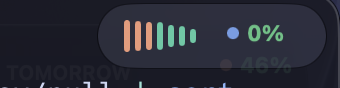
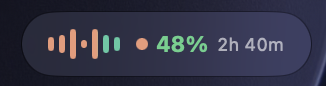
Improve README layout

diff --git a/README.md b/README.md
@@ -16,7 +16,7 @@
 </p>
 
 <p align="center">
-  <img src="docs/images/hud-pill.png" width="420" alt="플로팅 HUD 알약">
+  <img src="docs/images/hud-pill.png" width="326" alt="플로팅 HUD 알약">
 </p>
 
 화면 우상단에 항상 떠 있는 **펄스 웨이브 알약**이 AI 코딩 에이전트들의 토큰 소모를 실시간으로 보여줍니다. 토큰이 빨리 탈수록 파도가 크게 출렁이고, 색 띠는 지금 어떤 에이전트가 일하는지 알려줍니다. 한도가 임박하면 알약이 카드로 모핑되며 경고하고, 새 세션이 시작되면 지난 세션을 요약해줍니다.
@@ -33,22 +33,33 @@ curl -fsSL https://raw.githubusercontent.com/taeng0204/ai-glass/main/install.sh 
 
 ## 기능
 
-| | |
-|---|---|
-| **플로팅 HUD** | 우상단 glass 알약 — 웨이브 스타일 5종(펄스 바/스무스 웨이브/워터필/오브/심전도), 6초 서비스 로테이션, 호버 시 에이전트별 5h·주간 게이지+리셋 카운트다운, 드래그 이동, ⌘⇧E 고정 확장 |
-| **대시보드** | 메뉴바 ✦ 클릭 또는 ⌘⇧U — 개요(윈도우별 게이지·소진 예측·오늘 토큰/비용/속도) · 추이(7/30일 스택 차트) · 프로젝트(디렉토리별, 에이전트 색 구분) · 기록(알림 히스토리, 호버 시 알약 리플레이) |
-| **이벤트** | 한도 70/90% 임박 · 세션 리셋(직전 세션 요약) · 토큰 급증 · 소진 예측(5h는 세션 내 소진 시, 주간은 "~N일" 추세) · 복귀 인사 |
-| **브리핑** | 아침(어제 요약+스트릭 🔥) · 점심(오늘 페이스 예측) · 저녁(오늘 요약) · 월요일 주간 리포트 📊 |
-| **재미** | 마일스톤 돌파 🎉 · 일일 신기록 🏆 · 사운드(옵션) — 통계도 중요하지만 감성도 중요하니까 |
-| **온보딩** | 첫 실행 시 웨이브 스타일·메뉴바 모드·에이전트를 라이브 프리뷰로 선택 |
+- **플로팅 HUD**: 우상단 glass 알약, 웨이브 스타일 5종, 6초 서비스 로테이션, 호버 시 에이전트별 5h·주간 게이지+리셋 카운트다운, 드래그 이동, ⌘⇧E 고정 확장
+- **대시보드**: 메뉴바 ✦ 클릭 또는 ⌘⇧U, 개요(윈도우별 게이지·소진 예측·오늘 토큰/비용/속도), 추이(7/30일 스택 차트), 프로젝트(디렉토리별, 에이전트 색 구분), 기록(알림 히스토리, 호버 시 알약 리플레이)
+- **이벤트**: 한도 70/90% 임박, 세션 리셋(직전 세션 요약), 토큰 급증, 소진 예측, 복귀 인사
+- **브리핑**: 아침(어제 요약+스트릭 🔥), 점심(오늘 페이스 예측), 저녁(오늘 요약), 월요일 주간 리포트 📊
+- **재미**: 마일스톤 돌파 🎉, 일일 신기록 🏆, 사운드 옵션
+- **온보딩**: 첫 실행 시 웨이브 스타일·메뉴바 모드·에이전트를 라이브 프리뷰로 선택
 
 ## 스크린샷
 
-| 대시보드 메인 | HUD 확장 |
-|---|---|
-| <img src="docs/images/dashboard-overview.png" width="360" alt="대시보드 메인 — 에이전트별 사용량, 한도 경고, 오늘 토큰, 비용, 속도"> | <img src="docs/images/hud-expanded.png" width="300" alt="HUD 확장 — 에이전트별 5h, 주간, 일일 사용량"> |
-| 추이 차트 | 한도 알림 |
-| <img src="docs/images/dashboard-trends.png" width="360" alt="추이 차트 — 최근 7일 에이전트별 토큰 사용량"> | <img src="docs/images/limit-alert.png" width="260" alt="한도 임박 알림 — Claude 소진 임박 경고"> |
+<table align="center">
+  <tr>
+    <th width="50%">대시보드 메인</th>
+    <th width="50%">HUD 확장</th>
+  </tr>
+  <tr>
+    <td align="center"><img src="docs/images/dashboard-overview.png" width="360" alt="대시보드 메인 — 에이전트별 사용량, 한도 경고, 오늘 토큰, 비용, 속도"></td>
+    <td align="center"><img src="docs/images/hud-expanded.png" width="300" alt="HUD 확장 — 에이전트별 5h, 주간, 일일 사용량"></td>
+  </tr>
+  <tr>
+    <th width="50%">추이 차트</th>
+    <th width="50%">한도 알림</th>
+  </tr>
+  <tr>
+    <td align="center"><img src="docs/images/dashboard-trends.png" width="360" alt="추이 차트 — 최근 7일 에이전트별 토큰 사용량"></td>
+    <td align="center"><img src="docs/images/limit-alert.png" width="260" alt="한도 임박 알림 — Claude 소진 임박 경고"></td>
+  </tr>
+</table>
 
 <p align="center">
   <img src="docs/images/onboarding-waves.png" width="480" alt="온보딩 — 웨이브 스타일 선택">
